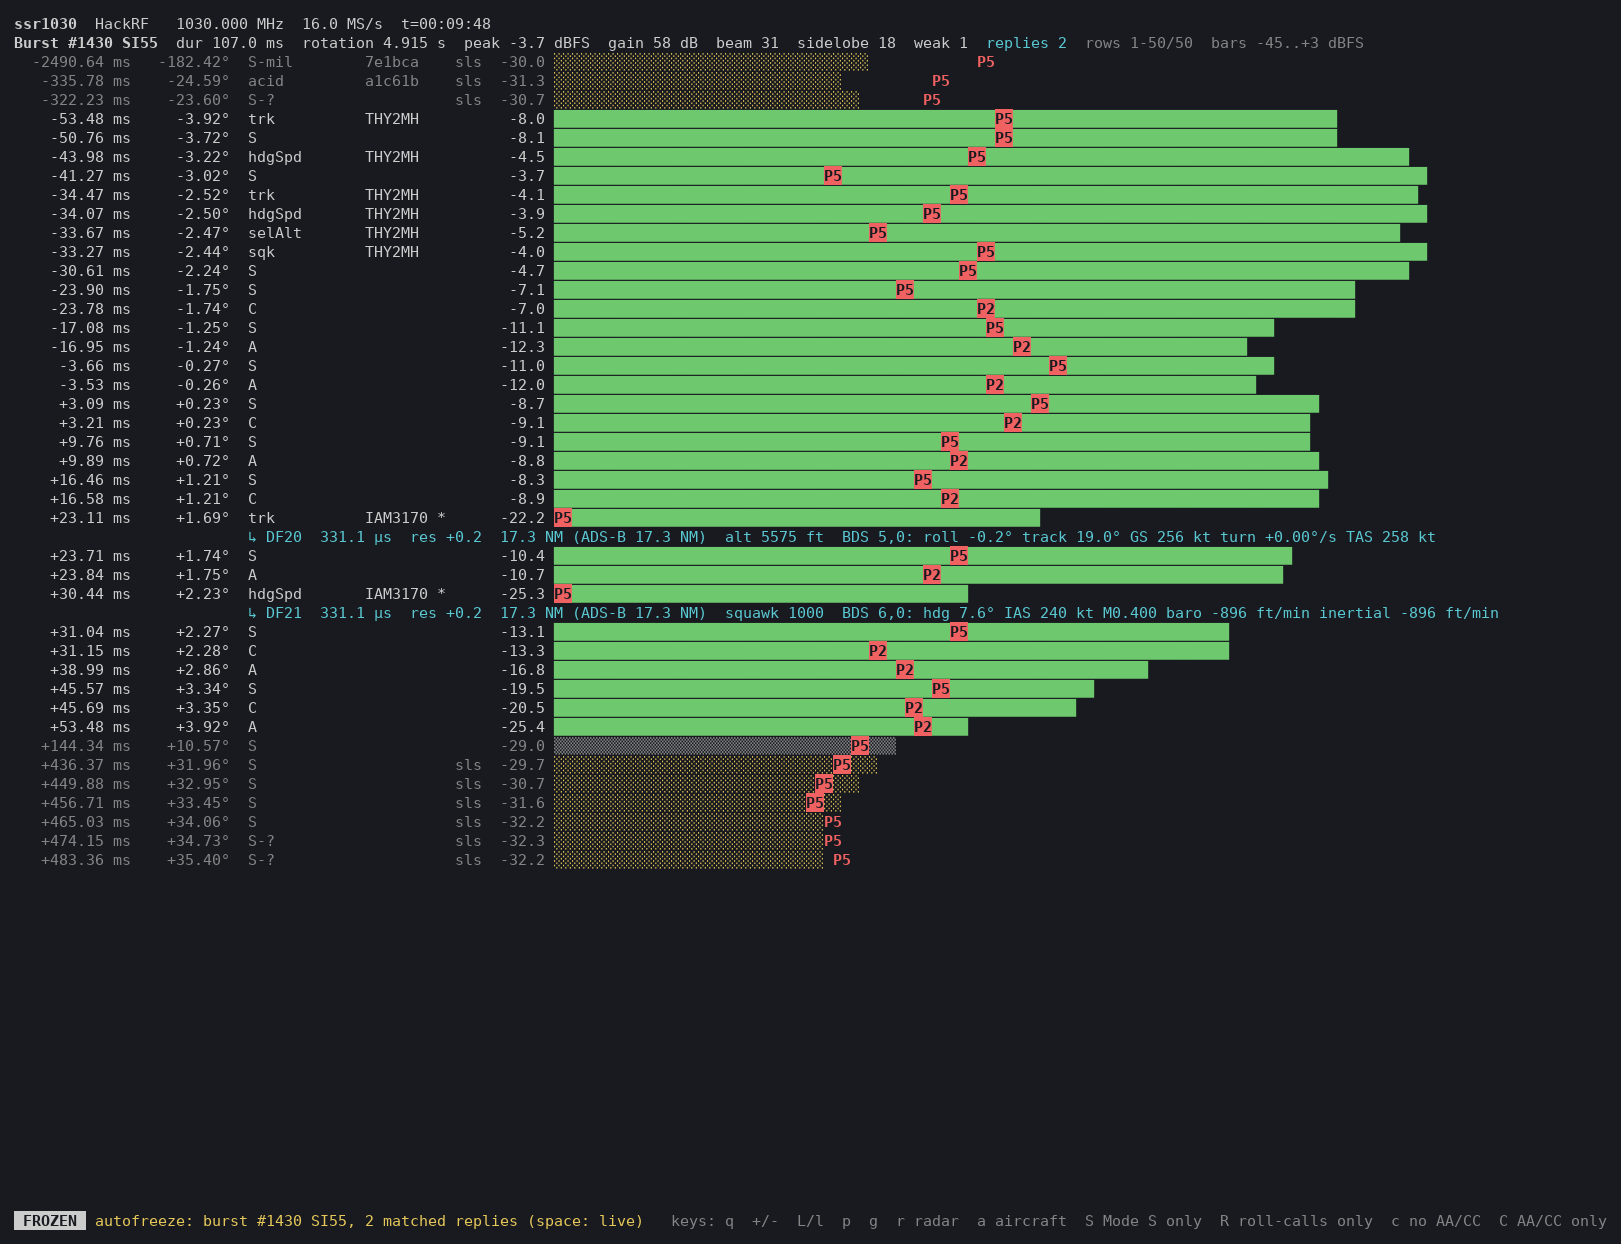
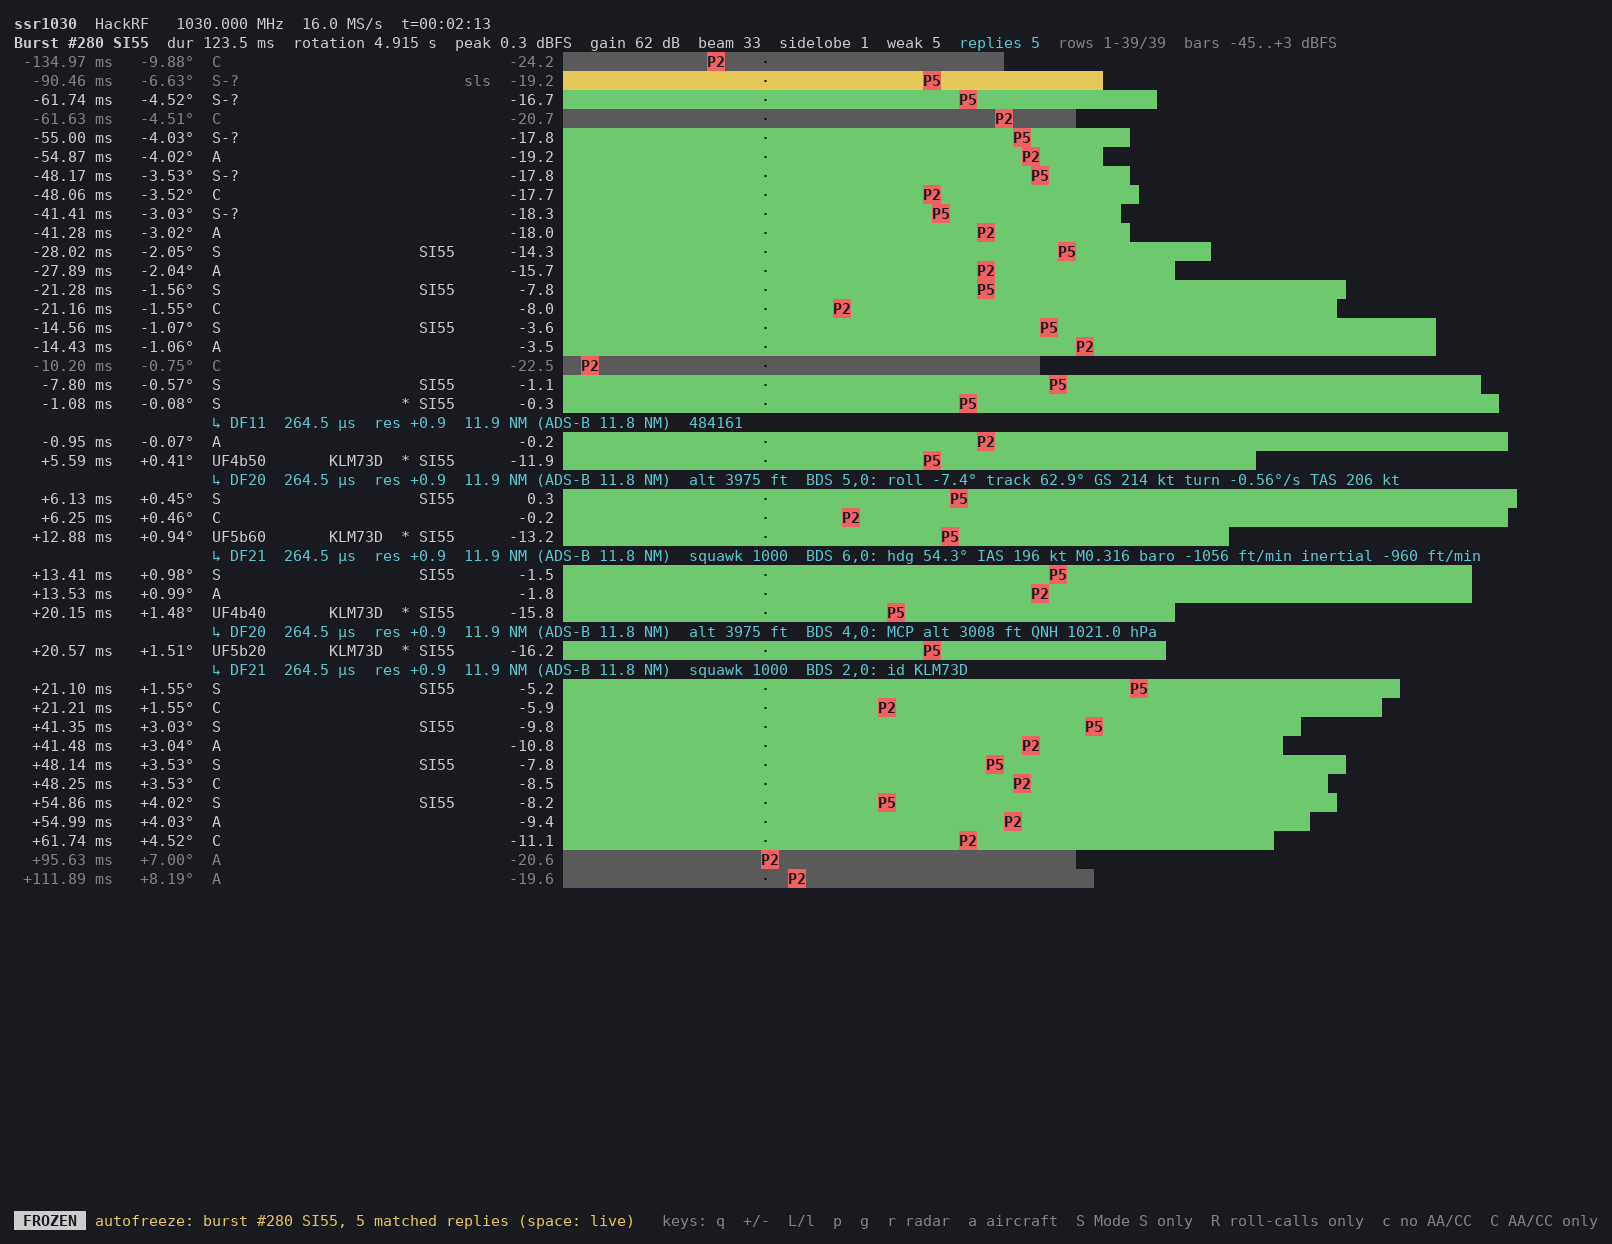
New screenshots: burst chart with 4 BDS registers, dashboard
Burst chart: SI55 burst with BDS 5,0/6,0/4,0/2,0 replies from one aircraft,
new colour bars and noise dot; caption updated. Dashboard after 3 minutes,
last burst from SI55.

diff --git a/README.md b/README.md
@@ -20,7 +20,7 @@ It is based on [dump1030](https://github.com/Fuziih/dump1030).
 
 ![Burst chart](docs/burst-chart.png)
 
-*Burst chart (`b`): every interrogation around one main-beam burst, with its level and the P2/P5 suppression pulse. Yellow bars came through the sidelobes.*
+*Burst chart (`b`): every interrogation around one main-beam burst, with its level and the P2/P5 suppression pulse. Yellow bars came through the sidelobes, grey ones are weak; the black dot on each bar is the noise floor.*
 
 ## Build
 
